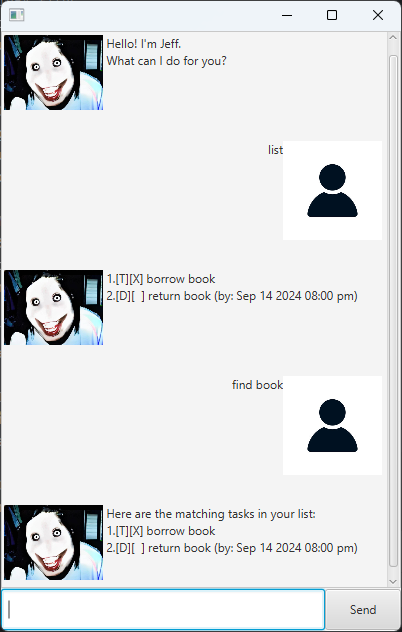
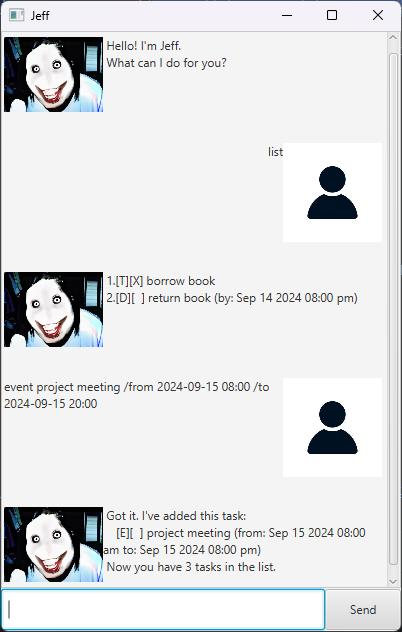
Add title to GUI

diff --git a/src/main/java/jeff/gui/Main.java b/src/main/java/jeff/gui/Main.java
@@ -24,6 +24,7 @@ public class Main extends Application {
             AnchorPane ap = fxmlLoader.load();
             Scene scene = new Scene(ap);
             stage.setScene(scene);
+            stage.setTitle("Jeff");
             fxmlLoader.<MainWindow>getController().setJeff(jeff);
             stage.show();
         } catch (IOException e) {

diff --git a/docs/README.md b/docs/README.md
@@ -1,6 +1,6 @@
 # Jeff User Guide
 
-![Screenshot of the chatbot with some commands]()
+![Screenshot of the chatbot with some commands](Ui.png)
 
 Jeff is a chatbot for managing tasks (To-Do, Deadline, Event) using a Command Line Interface.
 
@@ -9,7 +9,7 @@ Jeff is a chatbot for managing tasks (To-Do, Deadline, Event) using a Command Li
 1. Ensure you have Java 17 installed in your computer.
 
 
-2. Download the latest `.jar` file from [here](Insert link here).
+2. Download the latest `.jar` file from [here](https://github.com/Nicholaskoh1/ip/releases/download/v0.2/Jeff.jar).
 
 
 3. Copy the file to the folder you want to use as the home folder for your Chatbot.
@@ -22,7 +22,7 @@ and use the `java -jar Jeff.jar` command to run the application.
 5. A GUI similar to the below should appear in a few seconds.
 
 
-![Screenshot of the chatbot that is just opened]()
+![Screenshot of the chatbot that is just opened](EmptyUi.png)
 
 ## Features
 
